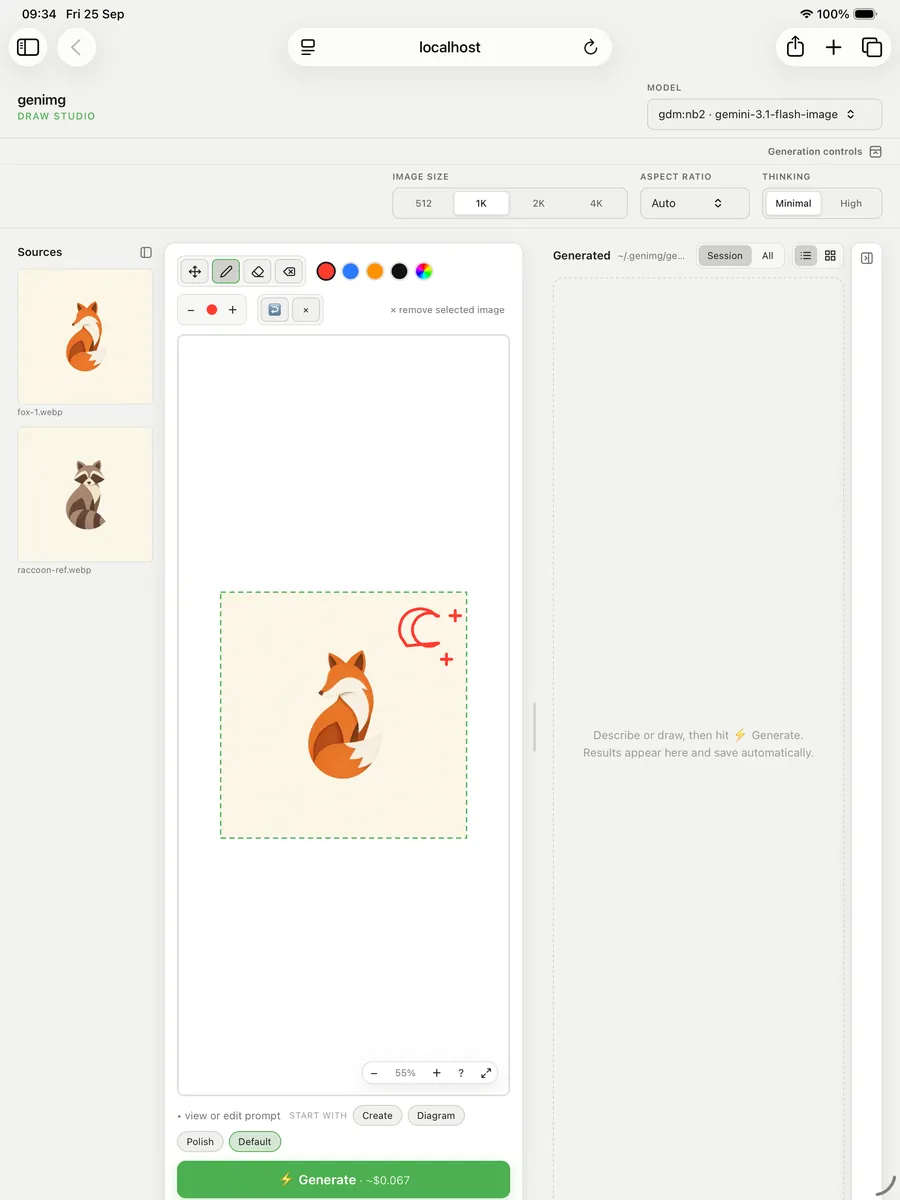
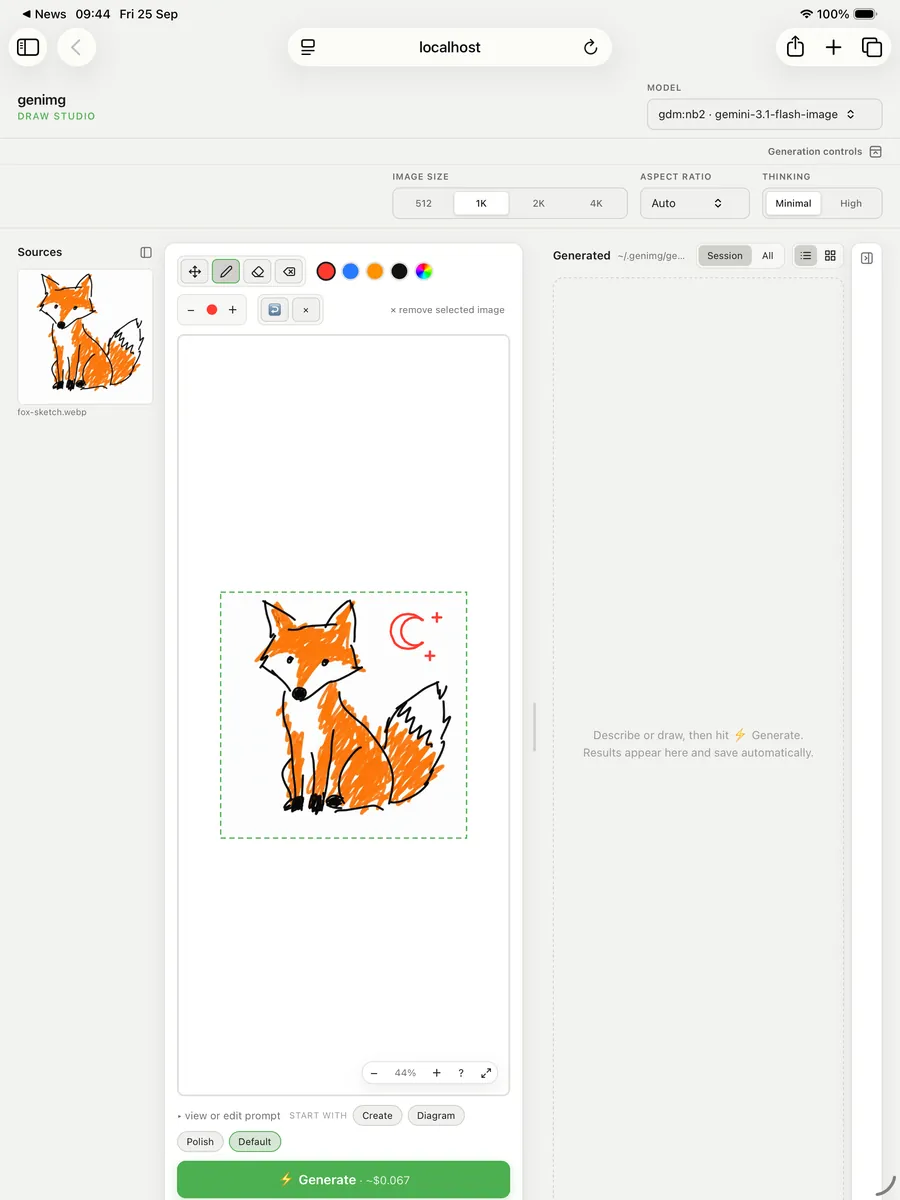
docs: show Draw Studio with a rough fox sketch on the canvas

diff --git a/docs/visual-tools/draw-studio.md b/docs/visual-tools/draw-studio.md
@@ -4,12 +4,12 @@ Sketch on an image, then have a model redraw it. Draw Studio is a browser canvas
 serves from your own computer.
 
 ```bash
-genimg draw -m gdm:nb2 fox-1.webp raccoon-ref.webp
+genimg draw -m gdm:nb2 fox-sketch.webp
 ```
 
 <figure markdown>
-  ![Draw Studio with the fox on the canvas and a moon sketched beside it](../assets/draw-studio.webp)
-  <figcaption>The command above, with a moon sketched in with the pen.</figcaption>
+  ![Draw Studio with a rough fox doodle on the canvas and a moon sketched beside it](../assets/draw-studio.webp)
+  <figcaption>The command above, with the doodle placed on the canvas and a moon added with the pen.</figcaption>
 </figure>
 
 1. Click a source image to put it on the canvas, or draw on a blank one.
@@ -23,12 +23,12 @@ of an API key. `--no-open` prints the URL instead of opening a browser.
 ## Draw from an iPad
 
 <figure markdown>
-  ![Draw Studio in Safari on an iPad](../assets/draw-studio-ipad.webp){ width="420" }
+  ![Draw Studio in Safari on an iPad, with the fox doodle on the canvas](../assets/draw-studio-ipad.webp){ width="420" }
   <figcaption>The iPad Pro 13-inch simulator, which shares the Mac's localhost. The moon was drawn by touch.</figcaption>
 </figure>
 
-The Studio listens only on the Mac's loopback address, so Safari on a separate iPad cannot open the Mac's `localhost`.
-Put the Mac's screen on the iPad instead:
+The Studio listens only on the Mac's loopback address, so Safari on a separate iPad cannot open
+the Mac's `localhost`. Put the Mac's screen on the iPad instead:
 
 - [Sidecar](https://support.apple.com/en-gb/102597) makes the iPad a second display. Drag the
   browser across and draw with Apple Pencil; the Studio ignores pressure.
